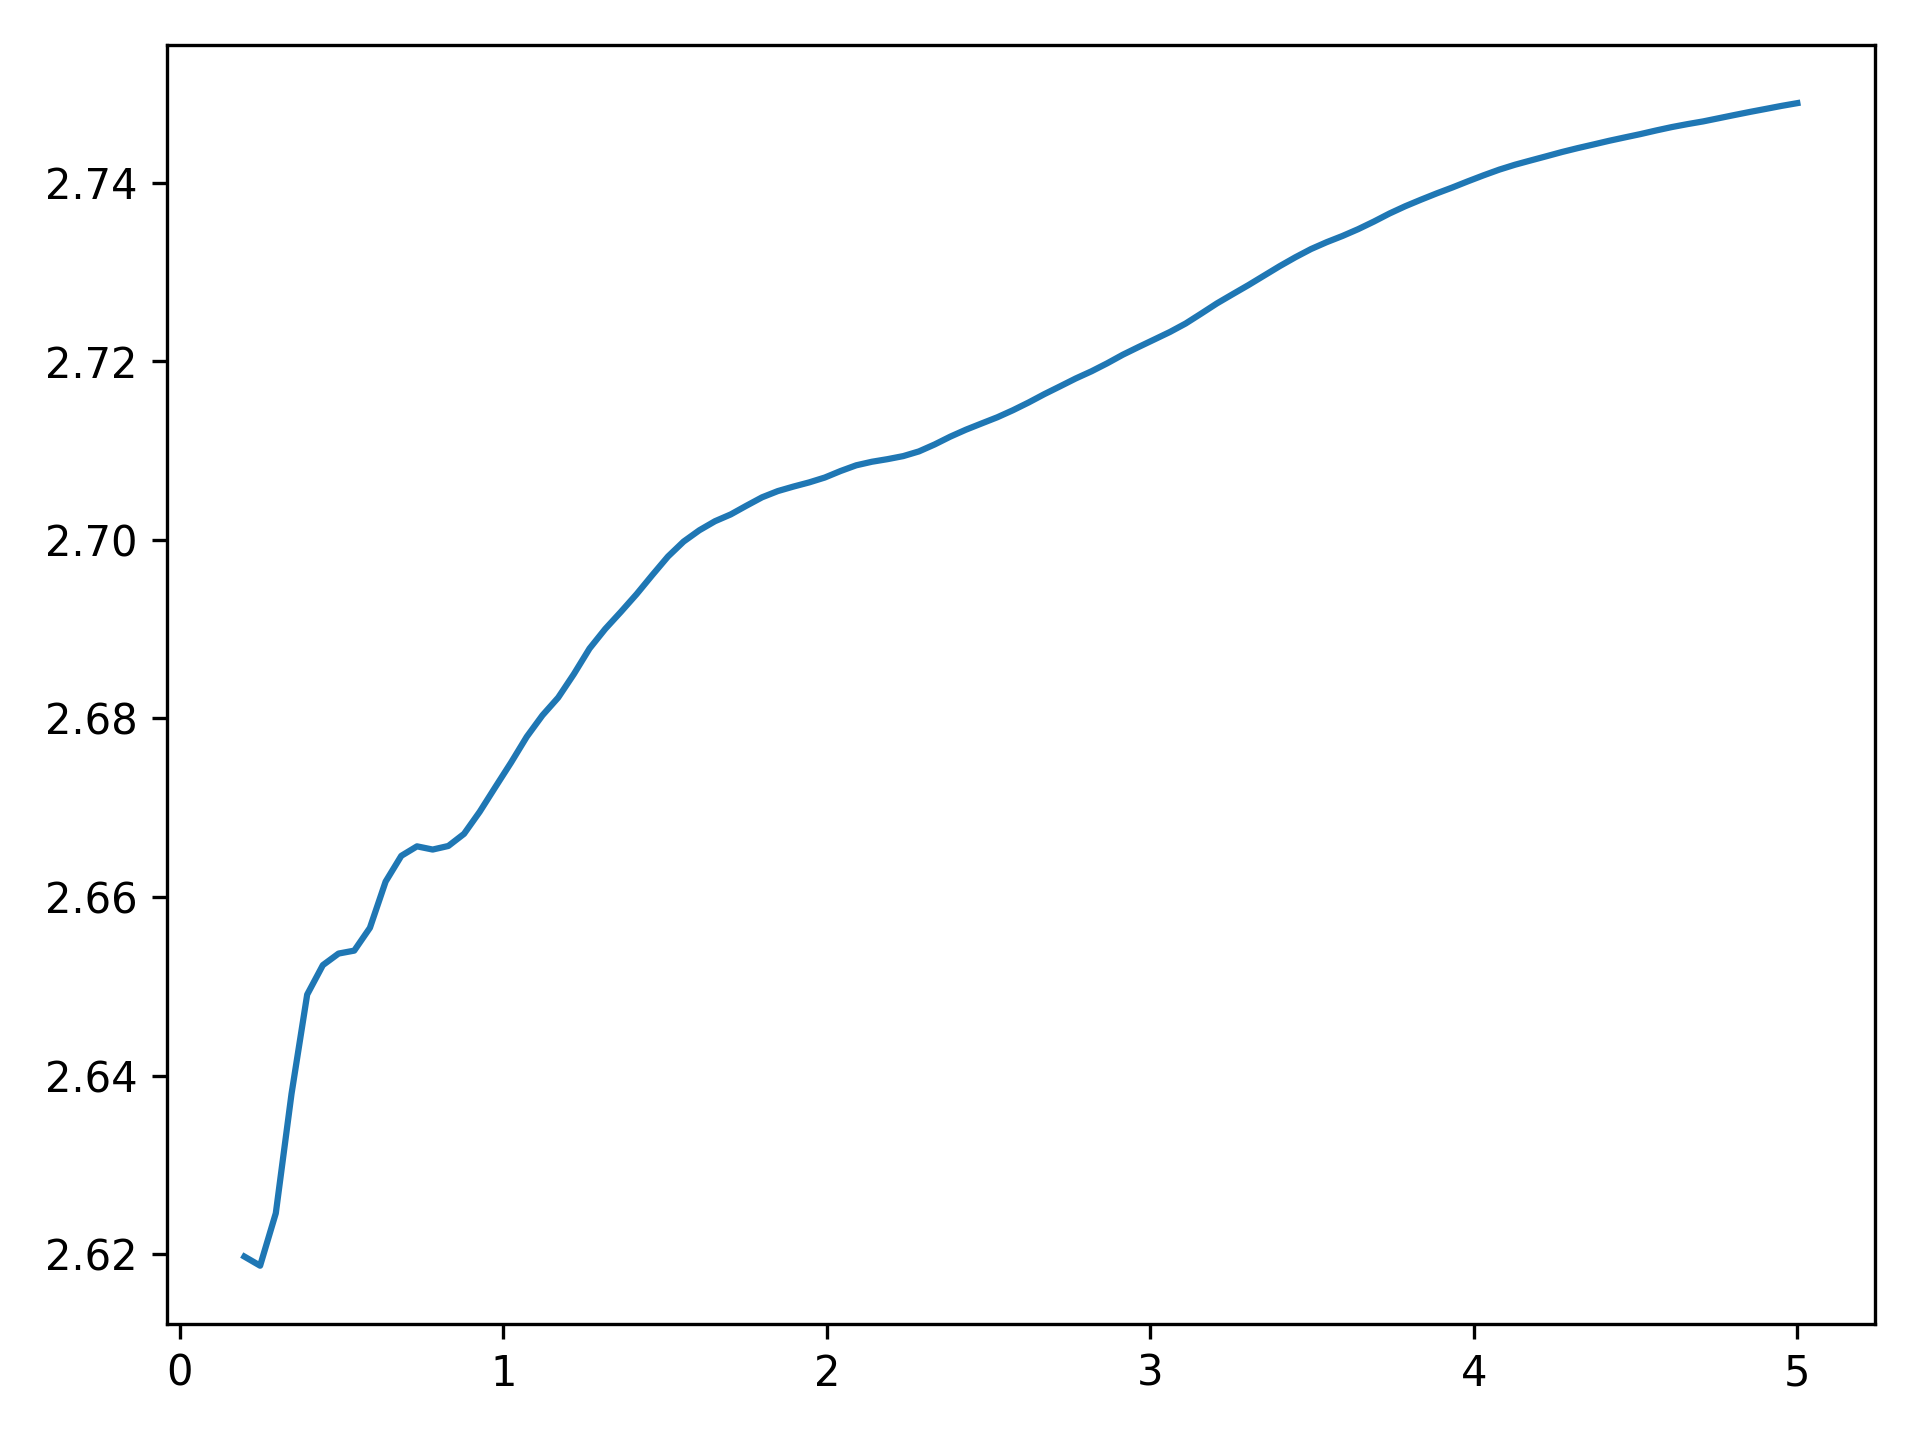
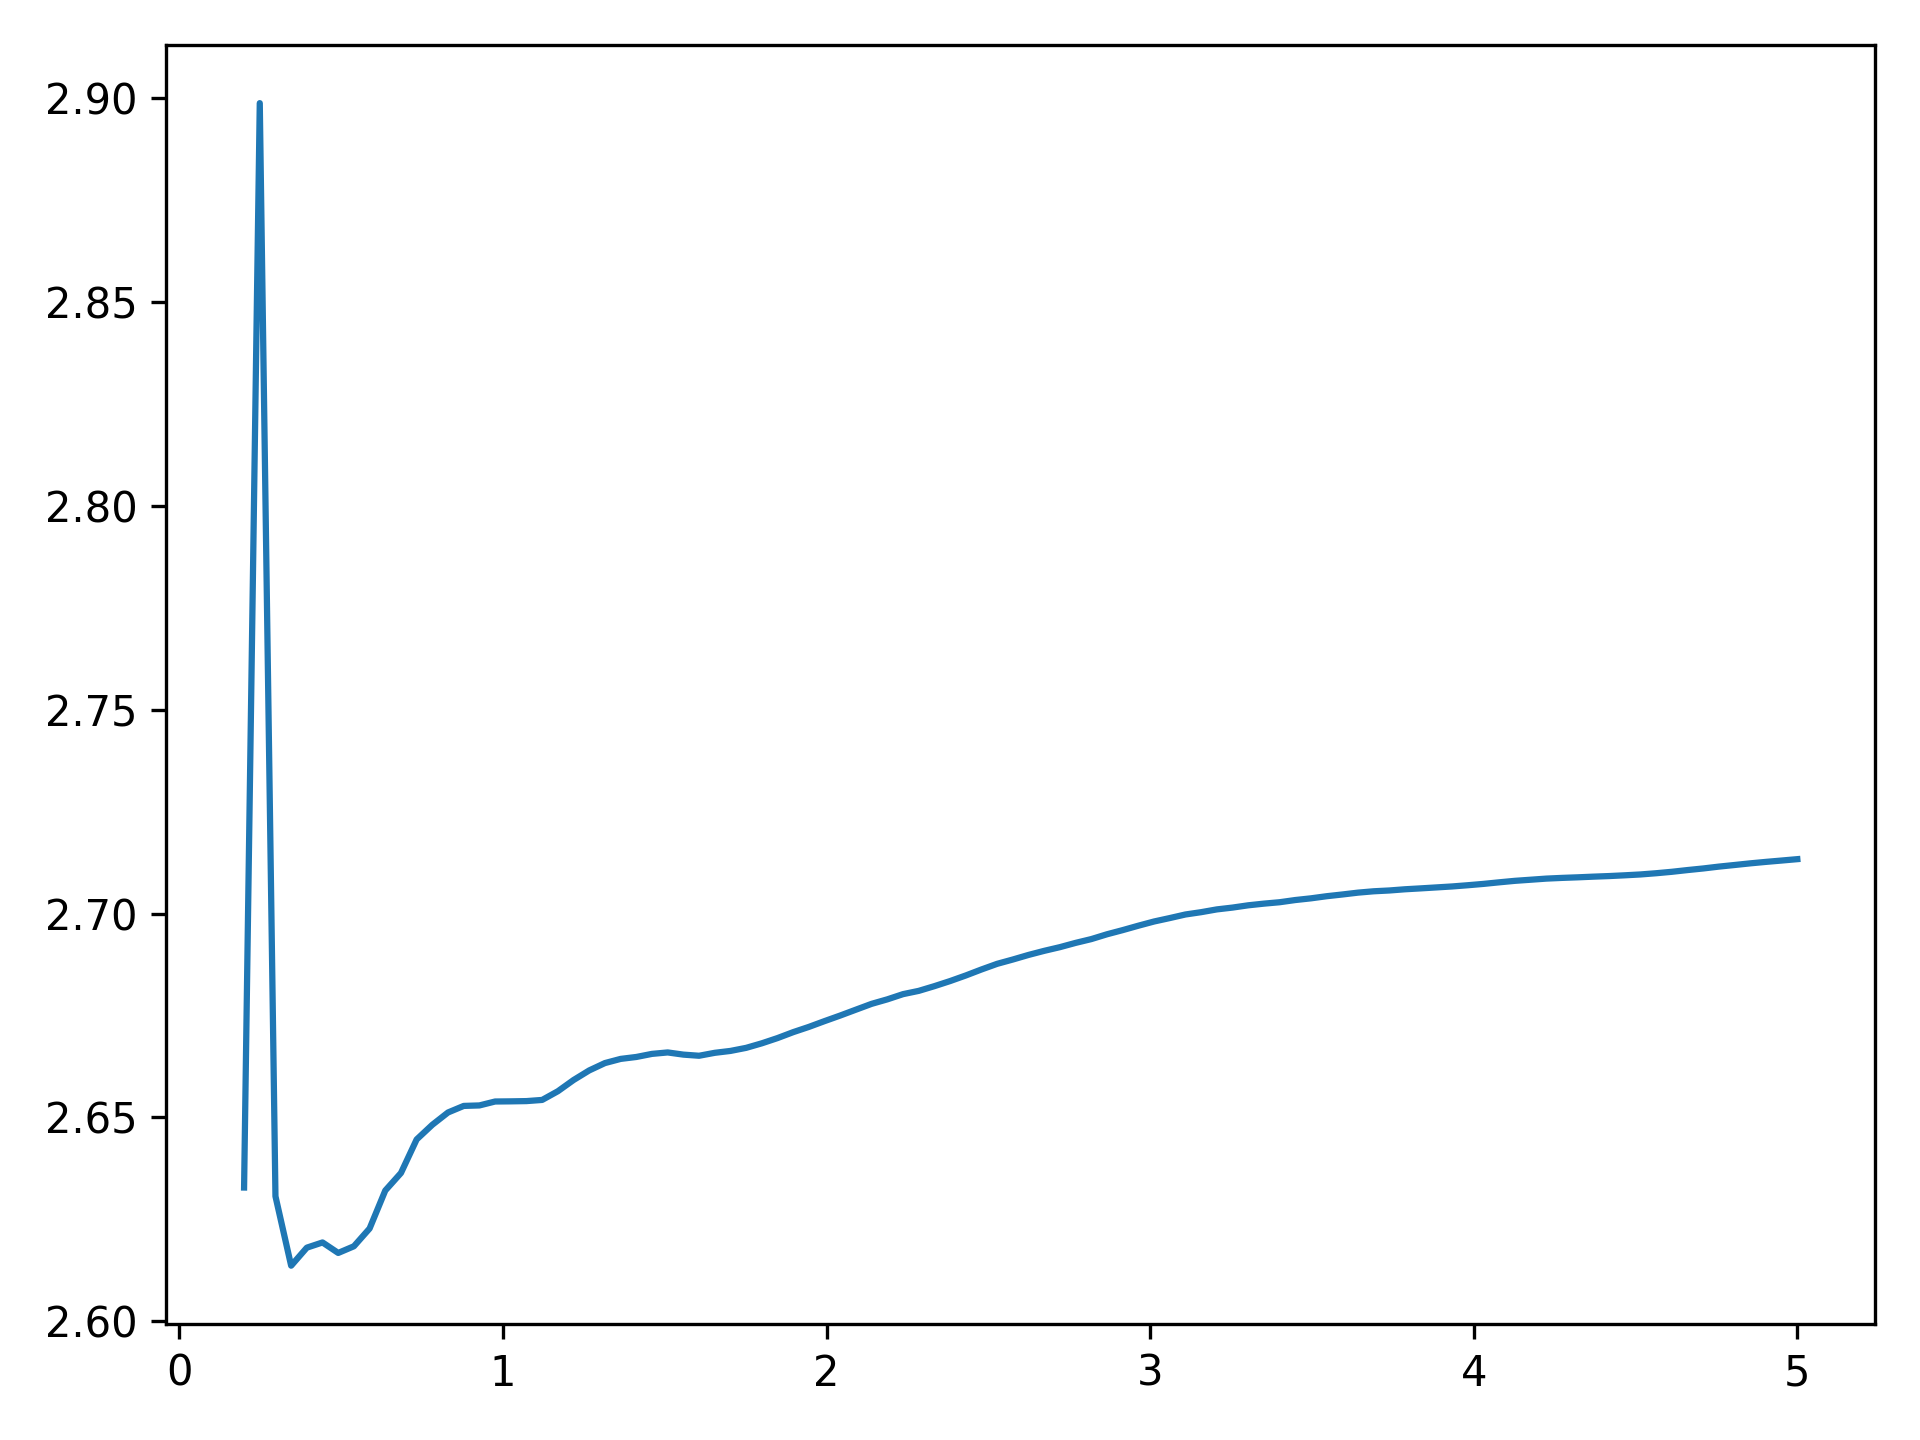
a

diff --git a/Proyecto_sismos.py b/Proyecto_sismos.py
@@ -74,7 +74,7 @@ data_right_viejo = df_175luz_viejo.copy()
 import eqsig.single
 bf, sub_fig = plt.subplots()
 a = data_mid['Linear Acceleration z (m/s^2)'][12000:60000] #min 2 a min 10
-dt = 0.005  # time step of acceleration time series
+dt = 0.01  # time step of acceleration time series
 periods = np.linspace(0.2, 5, 100)  # compute the response for 100 periods between T=0.2s and 5.0s
 record = eqsig.AccSignal(a * 9.8, dt)
 record.generate_response_spectrum(response_times=periods)
@@ -84,7 +84,7 @@ save_fig('Data_mid')
 
 bf, sub_fig = plt.subplots()
 a = data_left['Linear Acceleration z (m/s^2)'][12000:60000] #min 2 a min 10
-dt = 0.005  # time step of acceleration time series
+dt = 0.01  # time step of acceleration time series
 periods = np.linspace(0.2, 5, 100)  # compute the response for 100 periods between T=0.2s and 5.0s
 record = eqsig.AccSignal(a * 9.8, dt)
 record.generate_response_spectrum(response_times=periods)
@@ -94,7 +94,7 @@ save_fig('Data_left')
 
 bf, sub_fig = plt.subplots()
 a = data_right['Linear Acceleration z (m/s^2)'][12000:60000] #min 2 a min 10
-dt = 0.005  # time step of acceleration time series
+dt = 0.01  # time step of acceleration time series
 periods = np.linspace(0.2, 5, 100)  # compute the response for 100 periods between T=0.2s and 5.0s
 record = eqsig.AccSignal(a * 9.8, dt)
 record.generate_response_spectrum(response_times=periods)
@@ -602,3 +602,66 @@ sps[2].set_ylabel('Resp Disp [m]')
 sps[2].set_xlabel('Time [s]')
 sps[0].legend()
 save_fig('ElasticResponse_DataRight_viejo')
+
+
+
+
+
+#======================= FFT
+
+# Python example - Fourier transform using numpy.fft method
+import numpy as np
+import matplotlib.pyplot as plotter
+
+# How many time points are needed i,e., Sampling Frequency
+samplingFrequency   = 100;
+# At what intervals time points are sampled
+samplingInterval       = 1 / samplingFrequency;
+# Begin time period of the signals
+beginTime           = 0;
+# End time period of the signals
+endTime             = 10; 
+# Frequency of the signals
+signal1Frequency     = 4;
+signal2Frequency     = 7;
+# Time points
+time        = np.arange(beginTime, endTime, samplingInterval);
+# Create two sine waves
+amplitude1 = np.sin(2*np.pi*signal1Frequency*time)
+amplitude2 = np.sin(2*np.pi*signal2Frequency*time)
+# Create subplot
+figure, axis = plotter.subplots(4, 1)
+plotter.subplots_adjust(hspace=1)
+# Time domain representation for sine wave 1
+axis[0].set_title('Sine wave with a frequency of 4 Hz')
+axis[0].plot(time, amplitude1)
+axis[0].set_xlabel('Time')
+axis[0].set_ylabel('Amplitude')
+ # Time domain representation for sine wave 2
+axis[1].set_title('Sine wave with a frequency of 7 Hz')
+axis[1].plot(time, amplitude2)
+axis[1].set_xlabel('Time')
+axis[1].set_ylabel('Amplitude')
+# Add the sine waves
+amplitude = amplitude1 + amplitude2
+# Time domain representation of the resultant sine wave
+axis[2].set_title('Sine wave with multiple frequencies')
+axis[2].plot(time, amplitude)
+axis[2].set_xlabel('Time')
+axis[2].set_ylabel('Amplitude')
+
+# Frequency domain representation
+fourierTransform = np.fft.fft(data_right_viejo['Linear Acceleration z (m/s^2)'][12000:60000])/len(data_right_viejo['Linear Acceleration z (m/s^2)'][12000:60000])           # Normalize amplitude
+fourierTransform = fourierTransform[range(int(len(data_right_viejo['Linear Acceleration z (m/s^2)'][12000:60000])/2))] # Exclude sampling frequency
+
+tpCount     = len(data_right_viejo['Linear Acceleration z (m/s^2)'][12000:60000])
+values      = np.arange(int(tpCount/2))
+timePeriod  = tpCount/0.01
+frequencies = values/timePeriod
+
+# Frequency domain representation
+plt.set_title('Fourier transform depicting the frequency components')
+plt.plot(frequencies, abs(fourierTransform))
+plt.xlabel('Frequency')
+plt.ylabel('Acceleration')
+save_fig('FFT_right_viejo')
